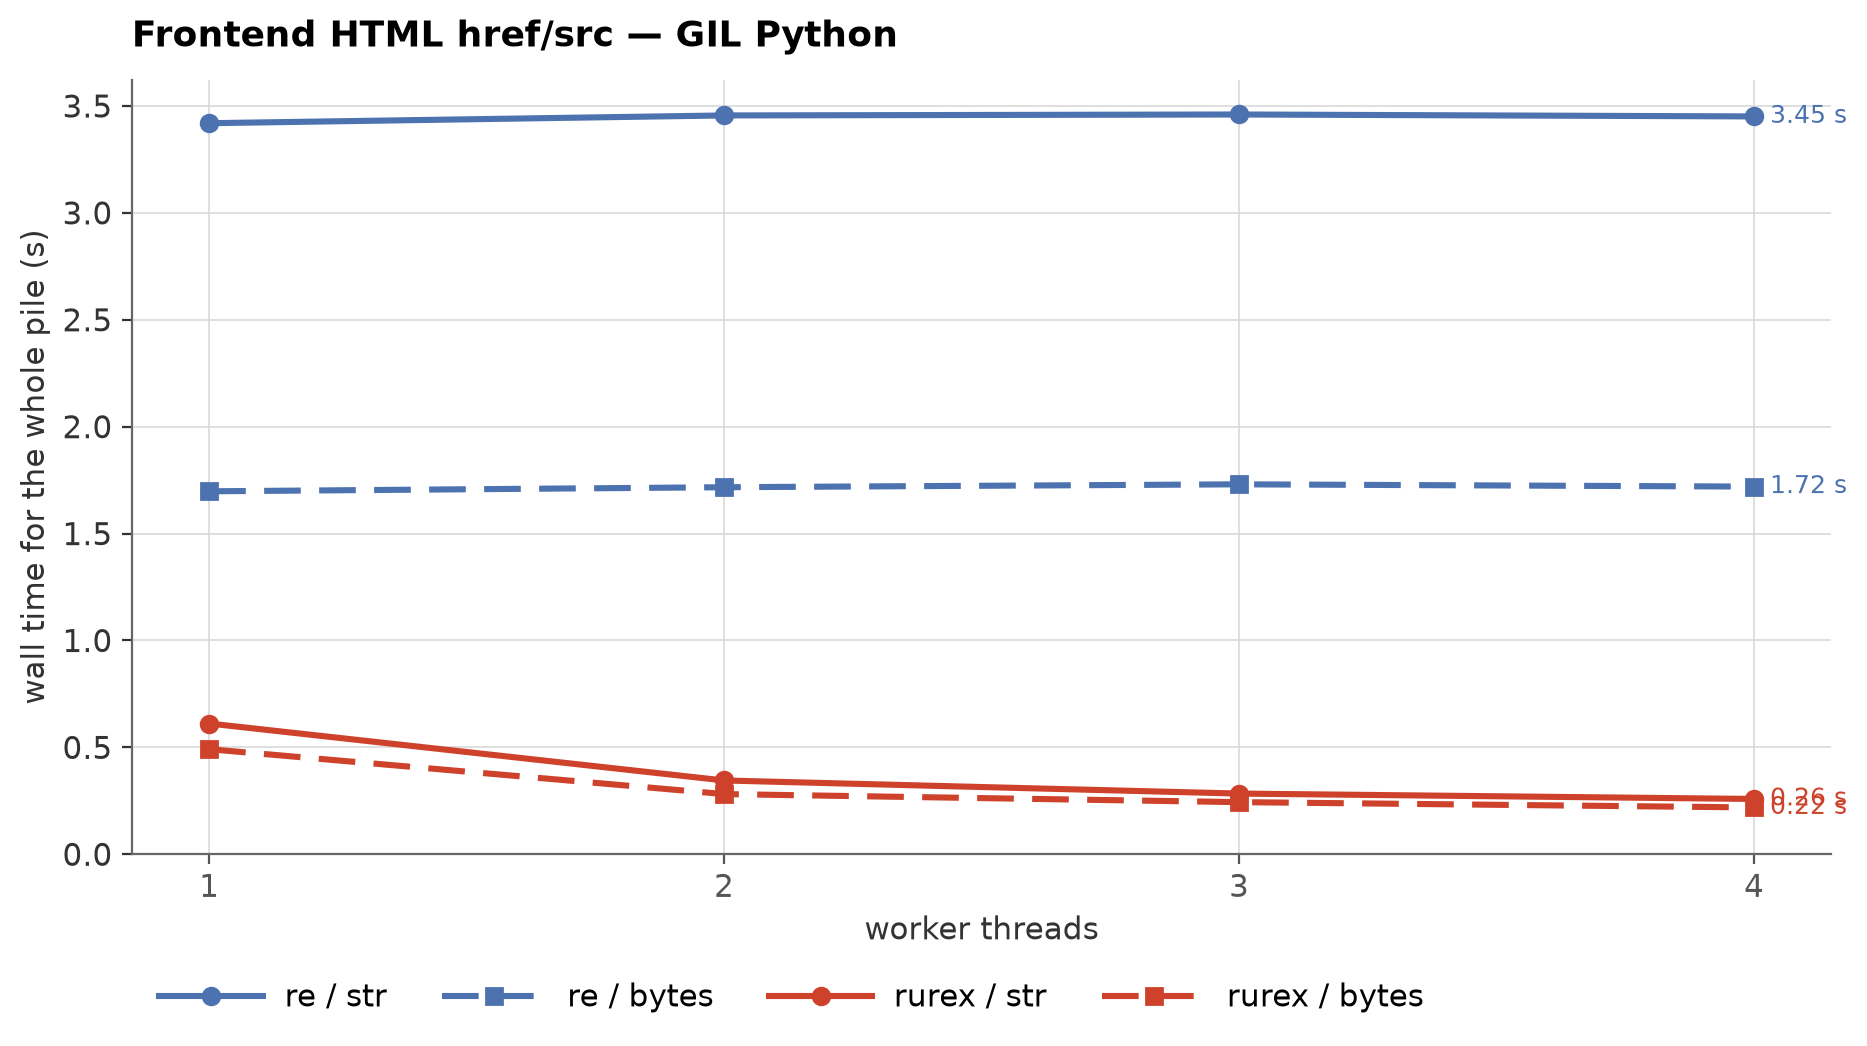
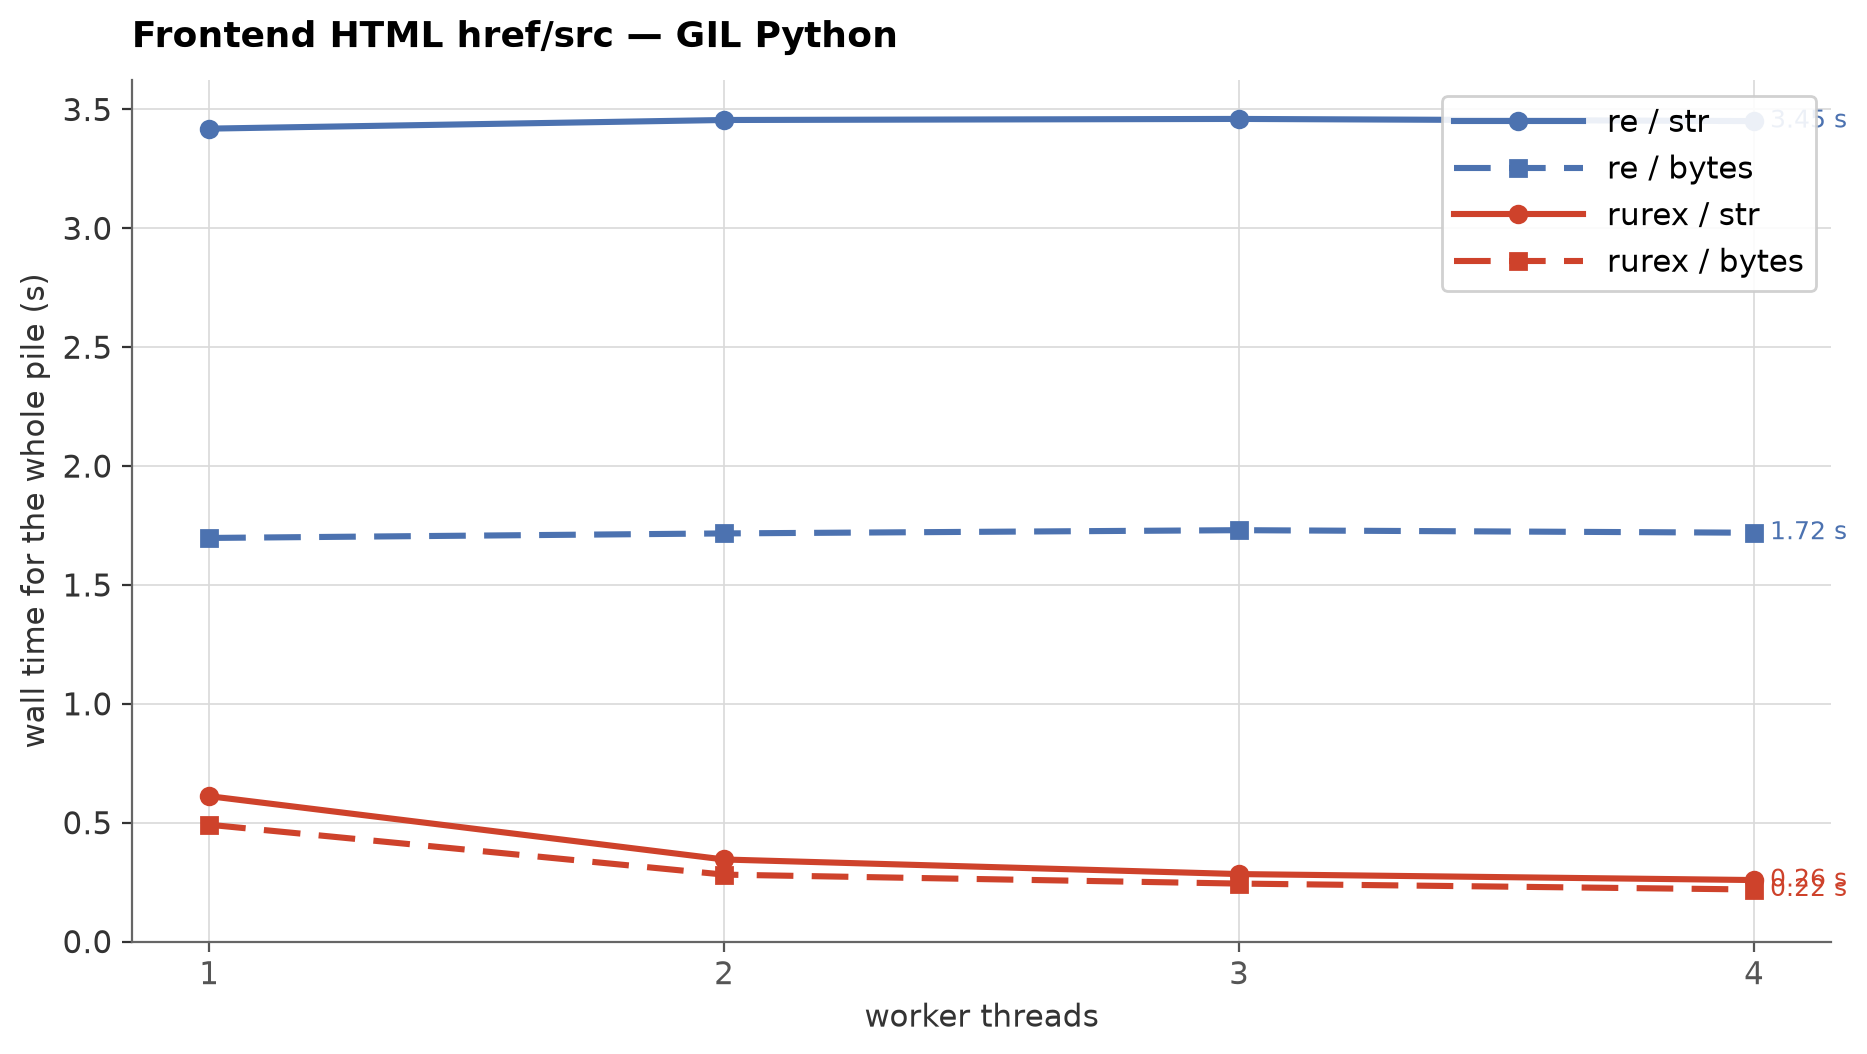
docs: restore the homepage legend to the upper right
Owner preference: the homepage panels keep their original legend
position. The only change left on those charts is the y axis starting
at zero.

diff --git a/benchmarks/frontend_html_charts.py b/benchmarks/frontend_html_charts.py
@@ -107,18 +107,7 @@ def chart(data, interp, out_name):
     ax.set_ylim(bottom=0)
     ax.set_ylabel("wall time for the whole pile (s)")
     ax.set_title(TITLES[interp], loc="left", fontsize=13, fontweight="bold", pad=12)
-    # Below the axes, left-aligned: on these panels the lower-left
-    # corner is where the rurex lines live, so an in-plot legend would
-    # cover them.
-    ax.legend(
-        loc="upper left",
-        bbox_to_anchor=(0.0, -0.13),
-        ncol=4,
-        handlelength=3.4,
-        handletextpad=0.7,
-        columnspacing=1.8,
-        frameon=False,
-    )
+    ax.legend(loc="upper right", handlelength=4.2, handletextpad=0.8)
     fig.tight_layout()
     path = IMG / out_name
     fig.savefig(path, bbox_inches="tight")
